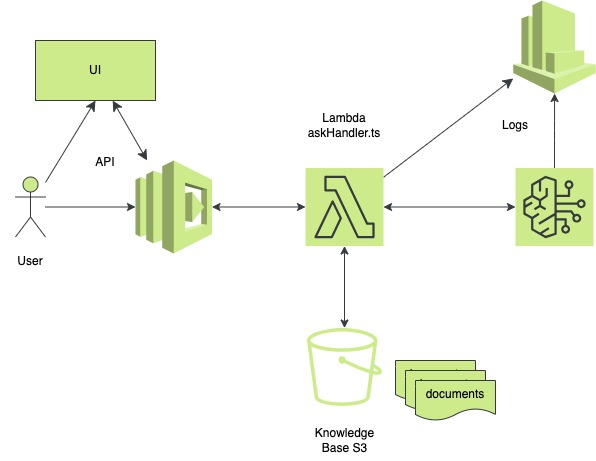
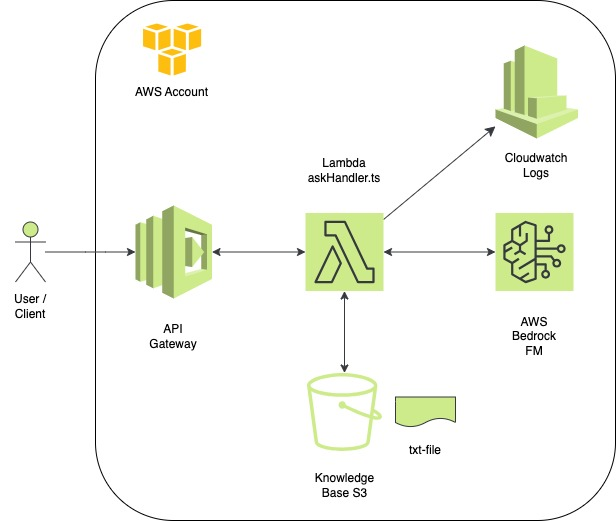
Titan model and basic confs

diff --git a/lambda/promptHandler/handler.ts b/lambda/promptHandler/handler.ts
@@ -14,91 +14,128 @@ import {
   APIGatewayProxyResult
 } from "aws-lambda";
 
-const bedrock = new BedrockRuntimeClient({ region: "us-east-1" });
-const s3 = new S3Client({ region: "us-east-1" });
+const region = "us-east-1";
+const bedrock = new BedrockRuntimeClient({ region });
+const s3 = new S3Client({ region });
 
+// Utility: Convert S3 stream to string
+function streamToString(stream: Readable): Promise<string> {
+  return new Promise((resolve, reject) => {
+    const chunks: Uint8Array[] = [];
+    stream.on("data", chunk => chunks.push(chunk));
+    stream.on("error", reject);
+    stream.on("end", () => resolve(Buffer.concat(chunks).toString("utf-8")));
+  });
+}
+
+/**
+ * Lambda function to handle API Gateway requests
+ * and interact with Bedrock Foundation Model.
+ * @param event - API Gateway event
+ * @returns 
+ */
 export const handler = async (event: APIGatewayProxyEvent): Promise<APIGatewayProxyResult> => {
-
   try {
+    const bucket = process.env.S3_BUCKET;
+    const key = "profiledetails.txt";
 
-    console.log("Event: ", JSON.stringify(event, null, 2));
+    if (!bucket) {
+      throw new Error("S3_BUCKET environment variable is not set.");
+    }
 
-    // Check if the event body is present
-    const demoEventBody = {
-      question: "What is the capital of France?",
-      topic: "Geography",
-    };
+    // Get profile content from S3
+    const object = await s3.send(new GetObjectCommand({ Bucket: bucket, Key: key }));
+    const profileContent = await streamToString(object.Body as Readable);
 
-    // Simulate a POST request with the demo event body
-    const stringifiedEvent = {
-      body: JSON.stringify(demoEventBody),
-    };
+    // If the profile content is empty, return an error
+    if (!profileContent) {
+      throw new Error("Please upload a profile details file to the S3 bucket.");
+    }
 
-    const { question, topic } = JSON.parse(stringifiedEvent.body || "{}");
+    // Parse the request body
+    const body = JSON.parse(event.body || "{}");
+    const clientQuestion = body.clientQuestion;
 
-    if (!question || !topic) {
+    // If clientQuestion is not provided, return an error
+    if (!clientQuestion) {
       return {
         statusCode: 400,
-        body: JSON.stringify({ error: "Missing 'question' or 'topic' in body." })
+        body: JSON.stringify({ error: "Please provide a client question, make sure to validate UI input." }),
+        headers: {
+          "Content-Type": "application/json"
+        }
       };
     }
 
-    // Create demo contextText
-    const contextText = `Konteksti: ${topic} - Tämä on esimerkkikonteksti, joka liittyy aiheeseen ${topic}.`;
+    /**
+     * Construct the full prompt for the model.
+     * You can find more detailed info from the official documentation:
+     * https://docs.aws.amazon.com/bedrock/latest/userguide/model-parameters-titan-text.html
+     */
+    const fullPrompt = `
+    You are a helpful and friendly assistant specialized in HR-related topics based on the PROFILE details below.
 
-    const prompt = `Tietopohja:\n\n${contextText}\n\nKäyttäjän kysymys:\n${question}`;
+    - Only answer questions that are related to HR topics as defined in the PROFILE.
+    - You are super committed to help PROFILE's person to find a new or better job.
+    - Do NOT answer questions unrelated to HR, including technical questions, calculations, or anything outside HR / PROFILE.
+    - If the question is unrelated to HR, respond politely with a short answer like: "I'm here to help with HR-related questions. Could you please ask something related to HR?"
+    - Keep your tone warm, concise, and professional.
 
+    === PROFILE ===
+    ${profileContent}
+
+    === QUESTION ===
+    ${clientQuestion}
+
+    === Answer ===
+    `;
+
+    // Store the full prompt in the console for debugging
+    console.log("Bedrock assistant fullPrompt:", fullPrompt);
+
+    // Invoke the model with the constructed prompt
     const input = {
-      modelId: "anthropic.claude-3-sonnet-20240229-v1:0",
+      modelId: "amazon.titan-text-premier-v1:0",
       contentType: "application/json",
       accept: "application/json",
-      body: JSON.stringify({
-        anthropic_version: "bedrock-2023-05-31",
-        messages: [
-          {
-            role: "user",
-            content: [
-              {
-                type: "text",
-                text: `Toimi asiantuntevana teknisenä neuvonantajana, joka antaa tiiviitä, mutta selkeitä vastauksia.\n\n${prompt}`
-              }
-            ]
-          }
-        ],
-        max_tokens: 1000,
-        temperature: 0.7,
-        top_p: 0.95
-      })
+      body: Buffer.from(JSON.stringify({
+        inputText: fullPrompt,
+        textGenerationConfig: {
+          maxTokenCount: 1000,
+          stopSequences: [],
+          temperature: 0.7,
+          topP: 0.9
+        }
+      }))
     };
 
-
+    // Send the request to the Bedrock model
     const response = await bedrock.send(new InvokeModelCommand(input));
-
-    const responseJson = JSON.parse(
-      new TextDecoder().decode(response.body)
-    );
+    const rawOutput = new TextDecoder().decode(response.body);
+    const parsed = JSON.parse(rawOutput);
+    const answer = parsed.results?.[0]?.outputText?.trim() || "No response from model.";
 
     return {
       statusCode: 200,
       headers: {
-        'Access-Control-Allow-Origin': '*',
-        'Access-Control-Allow-Credentials': 'true',
-        'Content-Type': 'application/json',
+        "Content-Type": "application/json",
+        "Access-Control-Allow-Origin": "*",
+        "Access-Control-Allow-Credentials": "true"
       },
-      body: JSON.stringify({
-        answer: responseJson?.content?.[0]?.text?.trim() || "No answer received"
-      })
+      body: JSON.stringify({ answer })
     };
+
   } catch (err: any) {
-    console.error("Error: ", err);
+    console.error("You application error:", err);
     return {
       statusCode: 500,
       headers: {
-        'Access-Control-Allow-Origin': '*',
-        'Access-Control-Allow-Credentials': 'true',
-        'Content-Type': 'application/json',
+        "Content-Type": "application/json"
       },
-      body: JSON.stringify({ error: "Internal Server Error" })
+      body: JSON.stringify({
+        error: "Internal Server Error",
+        detail: err?.message
+      })
     };
   }
 };

diff --git a/lib/bedrock-rag-agent-cdk-stack.ts b/lib/bedrock-rag-agent-cdk-stack.ts
@@ -74,7 +74,7 @@ export class BedrockRagAgentCdkStack extends cdk.Stack {
     requestHandler.addToRolePolicy(new iam.PolicyStatement({
       actions: ['bedrock:InvokeModel'],
       resources: [
-        'arn:aws:bedrock:us-east-1::foundation-model/anthropic.claude-3-sonnet-20240229-v1:0'
+        'arn:aws:bedrock:us-east-1::foundation-model/amazon.titan-text-premier-v1:0'
       ]
     }));
   }

diff --git a/README.md b/README.md
@@ -1,23 +1,32 @@
 # AI Assistant with Amazon Bedrock and AWS CDK
 
-A reusable, AWS CDK-defined backend infra for creating (RAG) based AI assistants using Amazon Bedrock and a Knowledge Base.
+A reusable, AWS CDK-defined (IAC) backend infra for creating (RAG) based AI assistants using Amazon Bedrock's pre selected Foundation Model (FM) with your own knowledge base as e.g. text files. The project is designed to be easily extendable and reusable, allowing you to create your own small scalge AI assistants with minimal effort.
 
-## Project goal
+## Initial used FM
 
-Show how to create a RAG-based AI assistant using Amazon Bedrock and a Knowledge Base. The project will be reusable and can be used as a starting point for creating your own RAG-based AI assistants.
+- ```amazon.titan-text-premier-v1:0``` - the default foundation model (FM) used in this project. You can easily switch to another FM by changing the model ID in the Stack and Lambda code. You can find more from FMs from [here](https://aws.amazon.com/bedrock/) and check the latest available models.
+
+- Note that Titan will use primarily English as the language, but it can also understand and respond in other languages. You can use the model to generate text in different languages by providing the input in the desired language. However, the quality of the output may vary depending on the language and the specific model used.
+
+- Note generally that some of models are not available in all regions, so make sure to check the availability of the models in your region. Note that e.g. Claude can be pretty needy for context, so you might need to use a different model if you have a lot of content in your knowledge base. Find more information from Titan models from [here](https://docs.aws.amazon.com/bedrock/latest/userguide/model-parameters-titan.html).
 
 ## Architecture
 
-![Arkkitehtuurikuva](./docs/idea-bedrock-rag-agent-cdk.jpg)
+![high-level-plans](./docs/idea-bedrock-rag-agent-cdk.jpg)
 
 ## Components
 
 - **API Gateway** – receives external requests, secured with API key
 - **Lambda (TypeScript)** – builds the prompt and calls Bedrock
-- **S3** – stores the knowledge base (e.g. CSV, JSON, etc.) 
+- **S3** – stores the knowledge base (e.g. TXT, JSON, etc.) 
 - **Amazon Bedrock** – generates answers using a selected foundation model
-- **Amazon CloudFront** (optional) – serves the UI with HTTPS
-- **S3 UI client** (optional) – hosts the UI
+
+## Optional Components (WIP)
+
+These are for additional feature from UI app side, if you want to store requests from user.
+- **DynamoDB table** – stores user requests and responses as optionalDataTable
+- **Lambda (TypeScript)** – stores messages to DynamoDB table
+- **API Gateway** – receives external requests, secured with API key - invokes the Lambda function to store messages
 
 ## Deployment with AWS CDK
 - ```cdk synth``` – synthesizes the CloudFormation template
@@ -25,13 +34,7 @@ Show how to create a RAG-based AI assistant using Amazon Bedrock and a Knowledge
 - ```cdk destroy``` – destroys the stack and removes all resources
 - ```cdk diff``` – shows the differences between the deployed stack and the local stack
 
-## Bedrock Foundation Model
-
-Amazon Bedrock provides access to a variety of foundation models (FM) from leading AI companies.
-
-This project offers anthropic.claude-3-sonnet-20240229-v1:0 as the default FM, but you can easily switch to another FM by changing the model ID in the Stack and Lambda code. Check models schema [here](https://docs.aws.amazon.com/bedrock/latest/devguide/bedrock-models.html) for the latest available models. Check also that models are available and enabled in your AWS region.
-
-## Security
+## Security notation
 
 **The selected FM model does not learn from your data.** Content in the Knowledge Base is not used to train the foundation model. Amazon Bedrock guarantees that customer-provided documents remain private and are not shared, stored, or used for training any underlying model. For sensitive data use cases, configure S3 permissions, VPC access, and API security appropriately.
 
@@ -39,13 +42,17 @@ Just wanted to write that down, because I have seen some people being worried ab
 
 ## Getting Started
 
-1. Create an AWS account, make also sure you don't use ROOT user, because it's not a good practice. This is maybe the bigges part of the setup, because you need to provide your credit card information. If you have an existing AWS account, create IAM user to have programmatic access to AWS services
+1. Create an AWS account, make also sure you don't use ROOT user, because it's not a good practice. This is maybe the bigges part of the setup, because you need to provide your credit card information. If you have an existing AWS account, create IAM user to have programmatic access to AWS account / services.
 2. Install AWS CLI if you don't have it already. You can find the installation instructions [here](https://docs.aws.amazon.com/cli/latest/userguide/getting-started-install.html). You can use Homebrew too if you are on MacOS: ```brew install awscli```
 3. Configure AWS CLI with your credentials ```aws configure``` 
-4. Before running deployments, make sure to run ```cdk bootstrap aws://<account-id>/<region>``` to set up the environment for CDK. This command sets up the necessary resources for CDK to deploy your stack, such as an S3 bucket for storing assets and a CloudFormation execution role.
-5. ..
+4. Now you can run e.g. command ```aws s3 ls``` to check that you have access to your AWS account.
+5. Before running deployments, make sure to run ```cdk bootstrap aws://<account-id>/<region>``` to set up the environment for CDK.
+6. Set your account ID and region to the file ```bedrock-rag-agent-cdk.ts``` that defines the CDK app. You can find your account ID from the AWS console. Please make sure also that you wont push those changes to the repo, because they are sensitive information. You can use .env file or something similar to store those values (wip).
+6. After configs & bootstrapping, you can run ```cdk deploy``` to deploy the stack. This will create all the resources defined in the CDK stack.
+6. Remember now include the **profiledetails.txt** named file to the S3 bucket.
+7. After this you are good to go to call API and start messing around with the AI assistant and your knowledge. You can use Postman or any other API testing tool to call the API endpoint. The API key is required for authentication, so make sure to include it in the request headers. You can find the API key in the AWS API Gateway console.
 
-## In Progress
+## Roadmap
 
 ### Basic infra
 
@@ -58,39 +65,32 @@ Just wanted to write that down, because I have seen some people being worried ab
 
 - [x] 5. Create S3 bucket for knowledge base markdown documents
 - [x] 6. Allow Lambda to access S3 bucket and fetch documents
-- [ ] 7. Plan logic for selecting topic-based document (e.g. "your-skills.md")
+- [x] 7. Read markdown content from S3 and parse it into a single string
 
-### Bedrock-integration
+### Bedrock-integration and configuration
 
 - [x] 8. Initialize / study Bedrock connection from Lambda
 - [x] 9. Create Lambda logic to call Bedrock Claude with constructed prompt
-- [ ] 10. Test Bedrock-powered Lambda with real markdown content via Postman
-- [ ] 11. Add environment variables (model ID, bucket name, etc.)
+- [x] 10. Test Bedrock-powered Lambda with real markdown content via Postman
+- [ ] 11. Add env file support for model ID, account ID, default region, and S3 bucket name...
 
 ### Testing and scaling
 
-- [ ] 12. Add support for `topic` and `language` in request payload
-- [ ] 13. Test multiple topics and multilingual responses
-- [ ] 14. Add fallback/error response handling
+- [ ] 12. Create unit tests for Lambda function
+- [ ] 13. Create integration tests for API Gateway
 
-### UI
+### UI (optional, not to this repo)
 
-- [ ] 15. Create lightweight React UI for asking questions
+- [ ] 15. Create lightweight NextJs UI for rendering the assistant
 - [ ] 16. Add selection for topic and response language in UI
 - [ ] 17. Host UI in S3 static website
 - [ ] 18. Serve UI through CloudFront with HTTPS (optional)
 
-### Docs
+### Docs 
 
-- [ ] 19. Draw architecture diagram (e.g. draw.io)
-- [ ] 20. Add architecture image to README
-- [ ] 21. Add usage instructions (API usage + UI usage)
+- [x] 19. Draw architecture diagram (e.g. draw.io)
+- [x] 20. Add architecture image to README
 
-
-
-## Configuration
-
-..coming soon
 
 ## License
 
